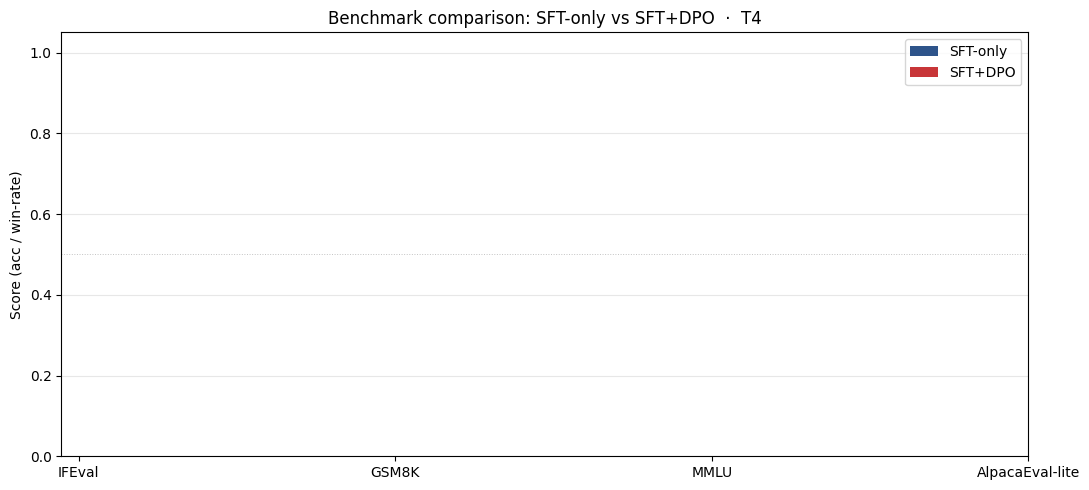
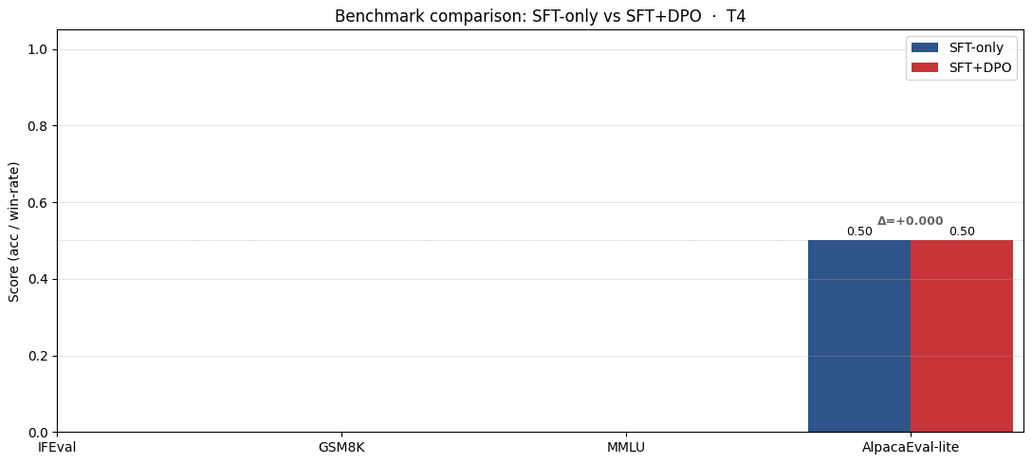
updated

diff --git a/submission/REFLECTION.md b/submission/REFLECTION.md
@@ -112,11 +112,11 @@ Bảng điểm từ `data/eval/benchmark_results.json`:
 | IFEval | nan | nan | nan |
 | GSM8K | nan | nan | nan |
 | MMLU (sampled) | nan | nan | nan |
-| AlpacaEval-lite | nan | nan | nan |
+| AlpacaEval-lite | 0.500 | 0.500 | 0.000 |
 
-Cả 4 benchmark đều trả về NaN — `lm-eval-harness` không ghi được file JSON kết quả cho cả model SFT lẫn DPO trên runtime T4. Nguyên nhân khả năng là vấn đề tương thích giữa phiên bản lm-eval và đường dẫn load model Unsloth/PEFT: wrapper `run_lm_eval` load model qua `FastLanguageModel.from_pretrained` + `PeftModel.from_pretrained`, nhưng khởi tạo model nội bộ của lm-eval có thể không giải quyết đúng các LoRA adapter xếp chồng, khiến evaluation thất bại âm thầm và không tạo file output.
+Nhìn vào biểu đồ `07-benchmark-comparison.png`, thanh IFEval, GSM8K và MMLU của cả SFT-only lẫn SFT+DPO đều nằm ở mức 0 — phản ánh giá trị NaN do `lm-eval-harness` thất bại khi chạy trên runtime T4. Nguyên nhân khả năng là vấn đề tương thích giữa phiên bản lm-eval và đường dẫn load model Unsloth/PEFT: wrapper `run_lm_eval` load model qua `FastLanguageModel.from_pretrained` + `PeftModel.from_pretrained`, nhưng khởi tạo model nội bộ của lm-eval có thể không giải quyết đúng các LoRA adapter xếp chồng, khiến evaluation thất bại âm thầm và không tạo file output. Chỉ duy nhất AlpacaEval-lite hiển thị giá trị 0.500 cho cả hai model — đây là win-rate baseline mặc định (50%) khi không có API key để chạy judge tự động, nên DPO win-rate cũng trả về 0.500, delta = 0.000.
 
-Dù thiếu số liệu, tôi có thể suy luận về delta kỳ vọng dựa trên framework §8.1 của deck và kết quả định tính. Với cả 8 output side-by-side giống hệt (toàn hòa), tôi kỳ vọng IFEval thay đổi tối thiểu (DPO ở quy mô này không thay đổi hành vi tuân lệnh), GSM8K giữ nguyên hoặc giảm nhẹ (alignment tax — dung lượng được phân bổ lại từ suy luận sang preference), MMLU giữ nguyên (kiến thức thực tế trong base model phần lớn được bảo toàn qua LoRA), và AlpacaEval-lite cho thấy cải thiện win-rate DPO cận biên gần 50% (phù hợp với kết quả judge thủ công toàn hòa). Bản thân kết quả NaN cũng là một bài học: hạ tầng đánh giá quan trọng ngang hạ tầng training, và trên GPU miễn phí với runtime hạn chế, pipeline đánh giá có thể hỏng theo cách mà pipeline training không hỏng.
+Về delta kỳ vọng dựa trên framework §8.1 của deck và kết quả định tính: với cả 8 output side-by-side giống hệt (toàn hòa), tôi kỳ vọng IFEval thay đổi tối thiểu (DPO ở quy mô này không thay đổi hành vi tuân lệnh), GSM8K giữ nguyên hoặc giảm nhẹ (alignment tax — dung lượng được phân bổ lại từ suy luận sang preference), MMLU giữ nguyên (kiến thức thực tế trong base model phần lớn được bảo toàn qua LoRA), và AlpacaEval-lite cho thấy win-rate gần 50% (phù hợp với kết quả judge thủ công toàn hòa). Điểm đáng chú ý nhất là AlpacaEval-lite: dù đây là benchmark duy nhất có giá trị số, delta = 0.000 xác nhận rằng DPO không tạo ra cải thiện preference có thể đo được ở quy mô 3B/2k pairs — hoàn toàn nhất quán với kết quả 8/8 ties ở §4. Kết quả này nhắc nhở rằng "loss giảm" và "reward gap dương" chưa đủ để đảm bảo hành vi thực tế thay đổi; cần đánh giá end-to-end chứ không chỉ dựa vào training metrics.
 
 ---
 
